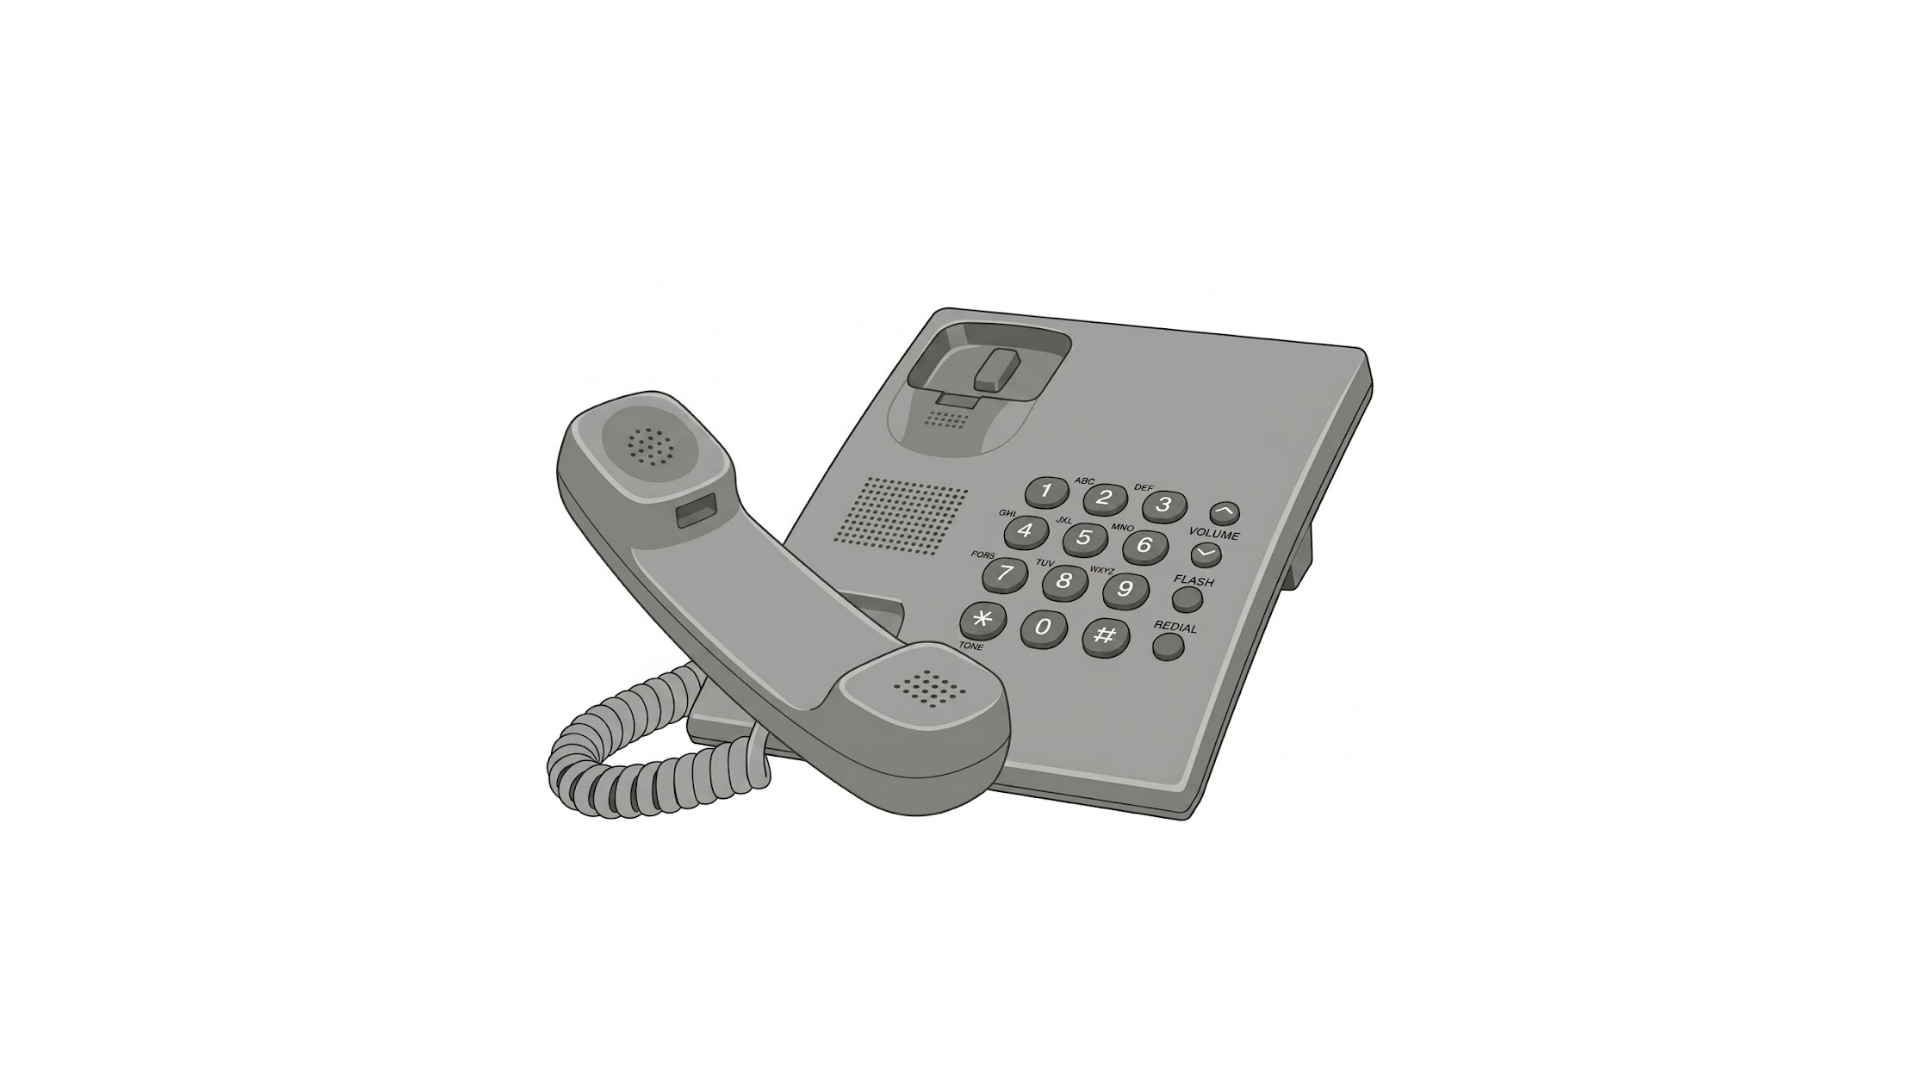
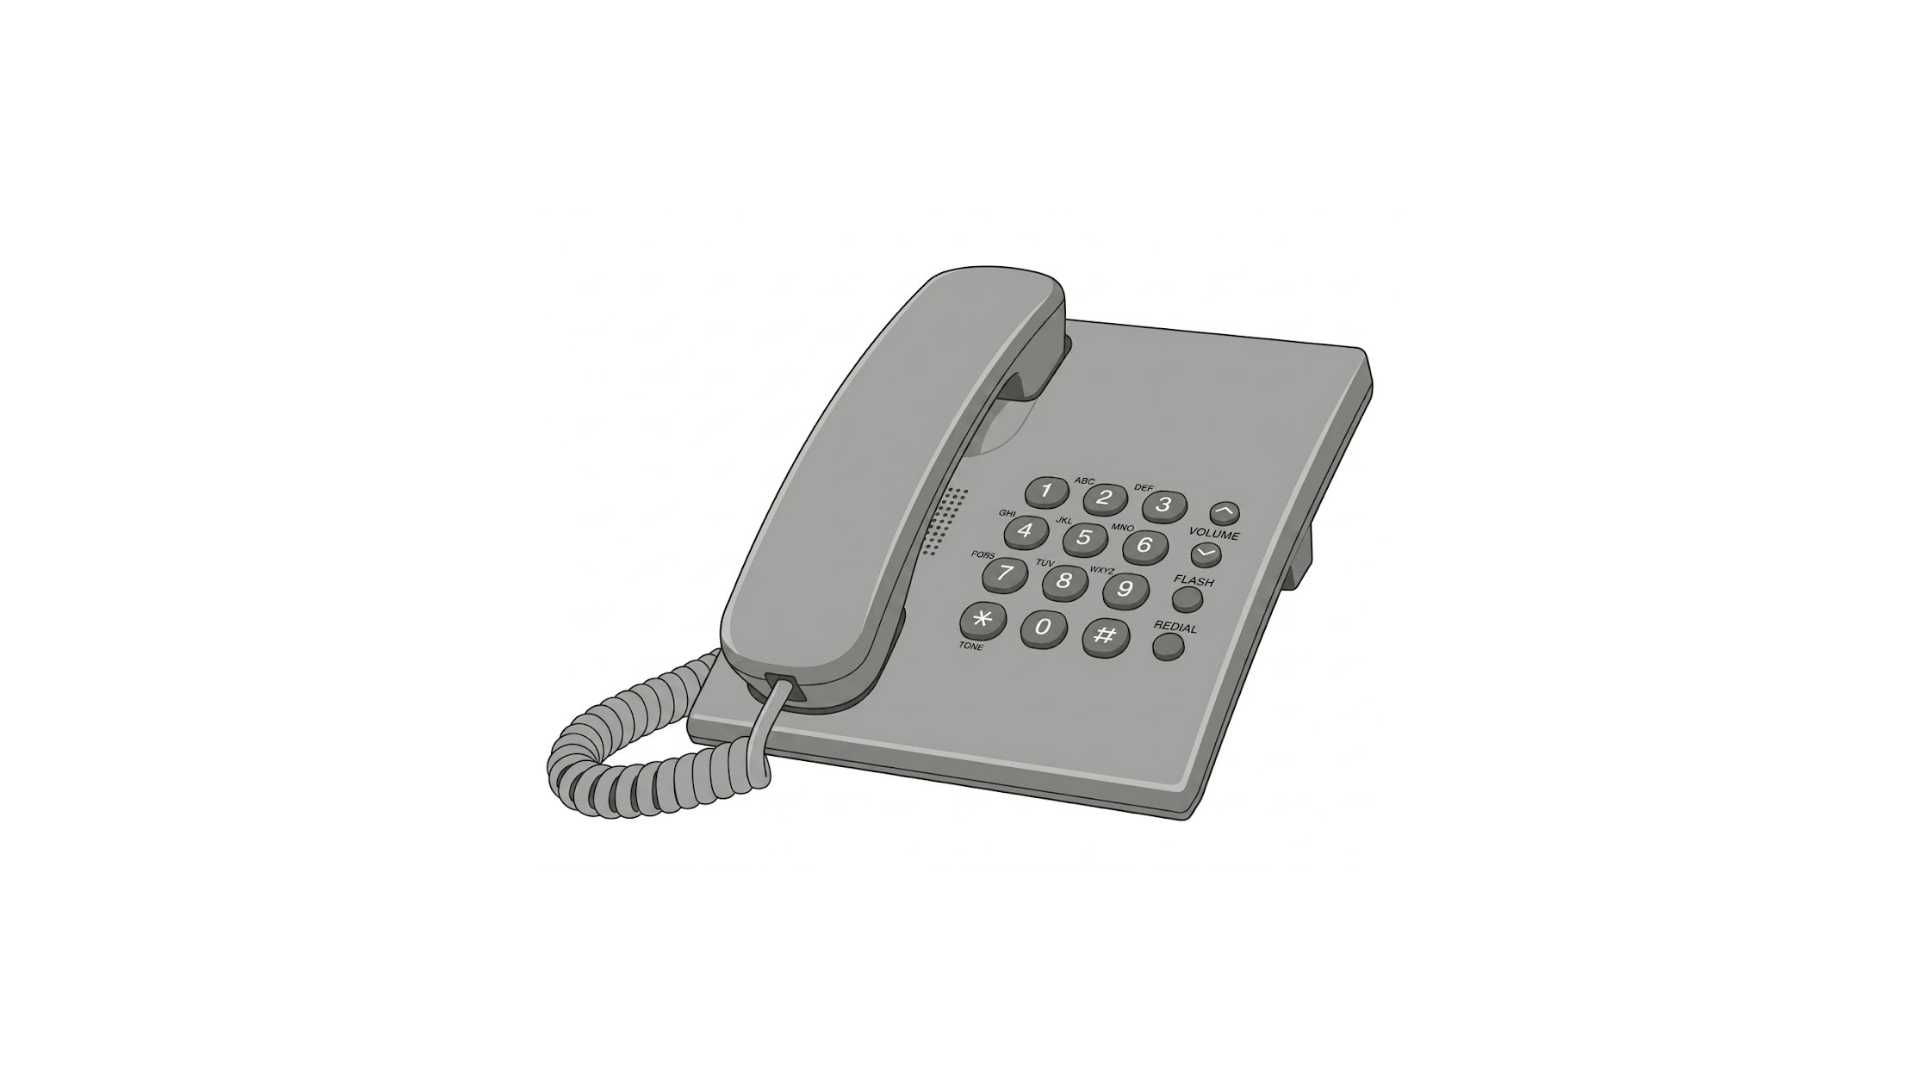
Trial duration + telephone img label correction

Changed region(s): [[0.2812, 0.2444, 0.5625, 0.7639]]

diff --git a/index.html b/index.html
@@ -890,8 +890,8 @@
         `,
             // Only responds to the SPACE bar
             choices: [' '],
-            // 8 seconds maximal display
-            trial_duration: 8000,
+            // 12 seconds maximal display
+            trial_duration: 12000,
             // Tags the trial as a practice trial in the action condition
             data: { task: 'practice', learning_condition: 'action' },
             // Records whether the participant missed the response
@@ -913,7 +913,7 @@
         `,
             // No key responses are allowed during feedback
             choices: "NO_KEYS",
-            trial_duration: 2000 // shows the secured door for 2 seconds
+            trial_duration: 6000 // shows the secured door for 6 seconds
         };
 
         // Conditional trial that only shows feedback if the participant responded in the practice action trial
@@ -944,10 +944,10 @@
         `,
             // Listens for ANY key press to catch false alarms
             choices: "ALL_KEYS",
-            // Ensures the trial stays on screen for the full 8 seconds even if a key is pressed
+            // Ensures the trial stays on screen for the full 12 seconds even if a key is pressed
             response_ends_trial: false,
-            // 8 seconds maximal display
-            trial_duration: 8000,
+            // 12 seconds maximal display
+            trial_duration: 12000,
             // Tags the trial as a practice trial in the imagination condition
             data: { task: 'practice', learning_condition: 'imagination' },
             on_finish: function (data) {
@@ -1002,7 +1002,7 @@
                 response_ends_trial: item.condition === "action"
                     ? true
                     : false,
-                trial_duration: 8000, // 8 seconds maximal display
+                trial_duration: 12000, // 12 seconds maximal display
                 // Tags the trial with relevant data for later analysis
                 data: {
                     task: "main",
@@ -1043,7 +1043,7 @@
     `,
                     // No key responses are allowed during this trial
                     choices: "NO_KEYS",
-                    trial_duration: 800,
+                    trial_duration: 2000,
 
                     // Tags the trial with relevant data for later analysis
                     data: {
@@ -1073,8 +1073,8 @@
     `,
                     // No key responses are allowed during this trial
                     choices: "NO_KEYS",
-                    // The glitch effect is shown for a very brief duration
-                    trial_duration: 400,
+                    // Shows the unsafe image with the glitch overlay for 2 seconds
+                    trial_duration: 2000,
 
                     // Tags the trial with relevant data for later analysis
                     data: {
@@ -1103,7 +1103,7 @@
     `,
                     // No key responses are allowed during this trial
                     choices: "NO_KEYS",
-                    trial_duration: 800,
+                    trial_duration: 2000,
 
                     data: {
                         task: "secured_after_glitch",
@@ -1150,7 +1150,7 @@
             </div>
         `,
                     choices: "NO_KEYS",
-                    trial_duration: 2000
+                    trial_duration: 6000
                 };
 
                 // Defines a conditional timeline that only shows the main feedback if the participant responded in the main trial and the item is not assigned a glitch
